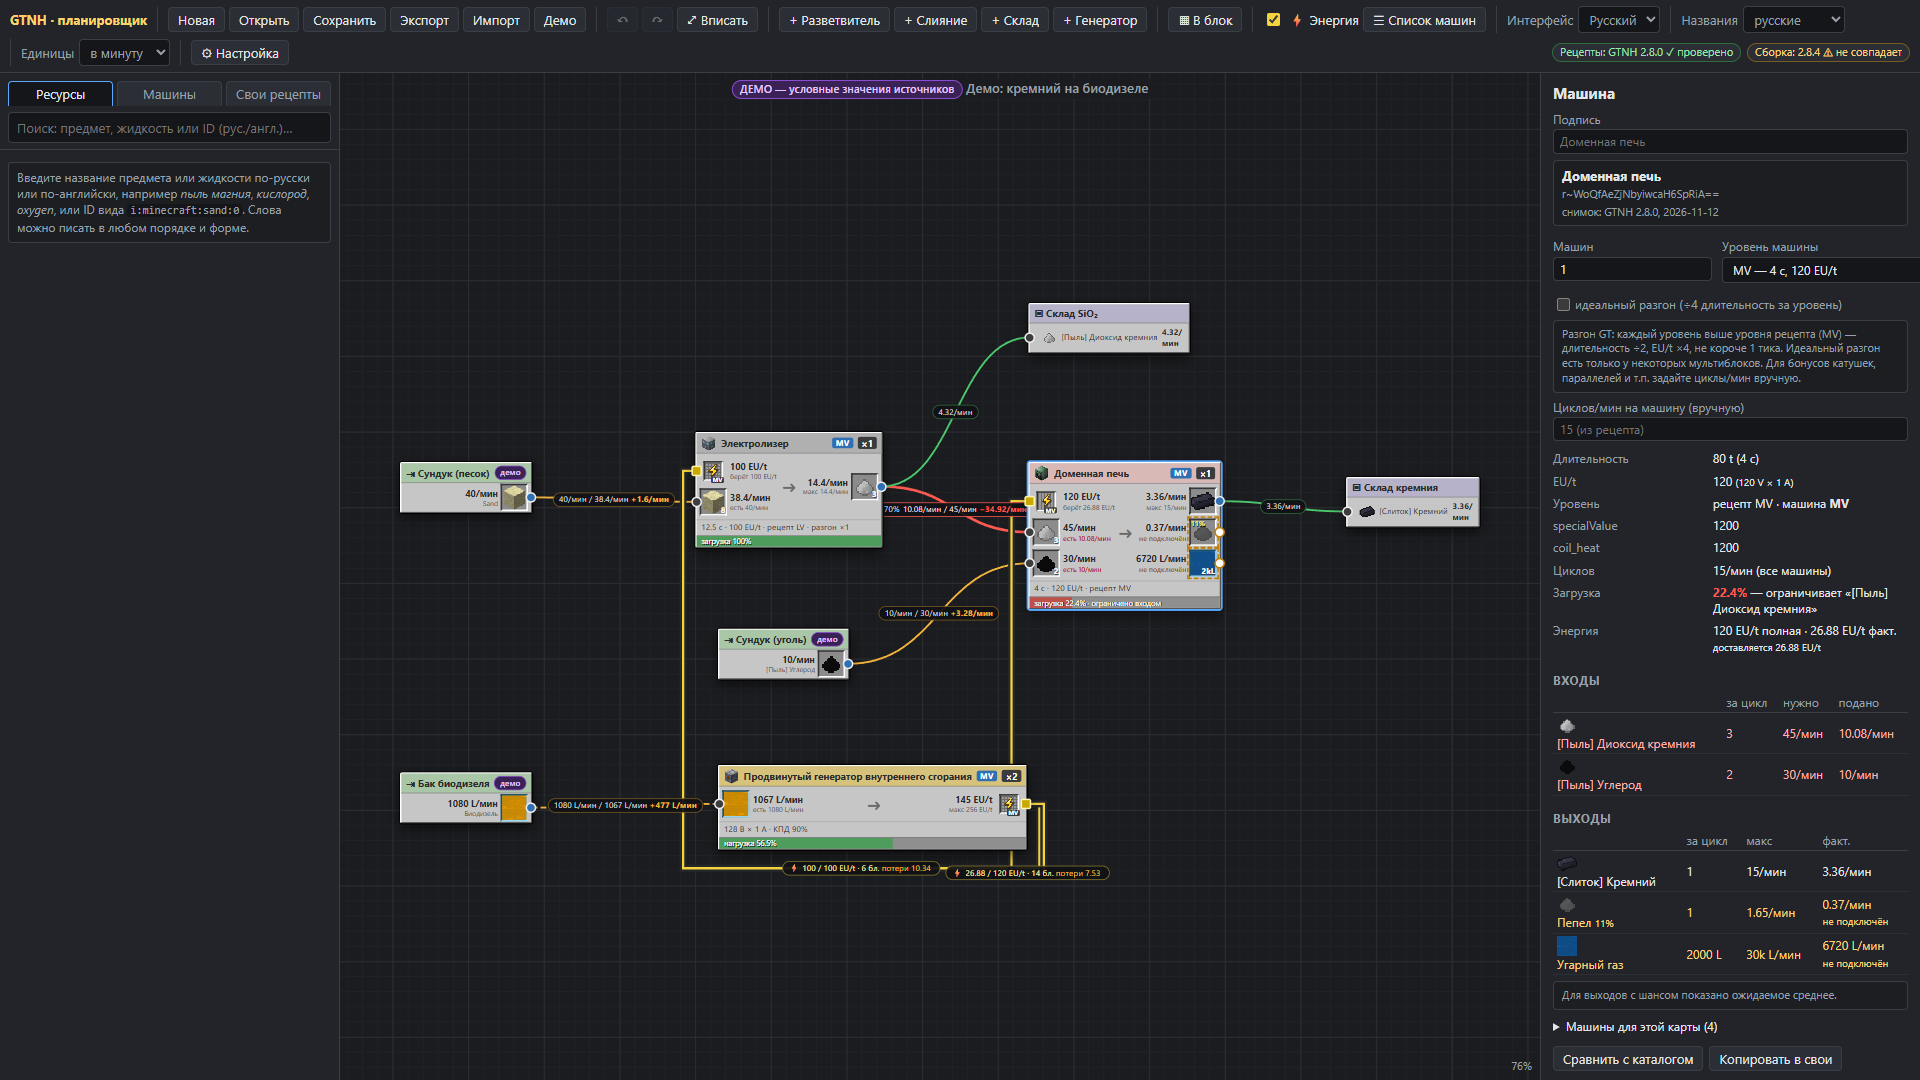
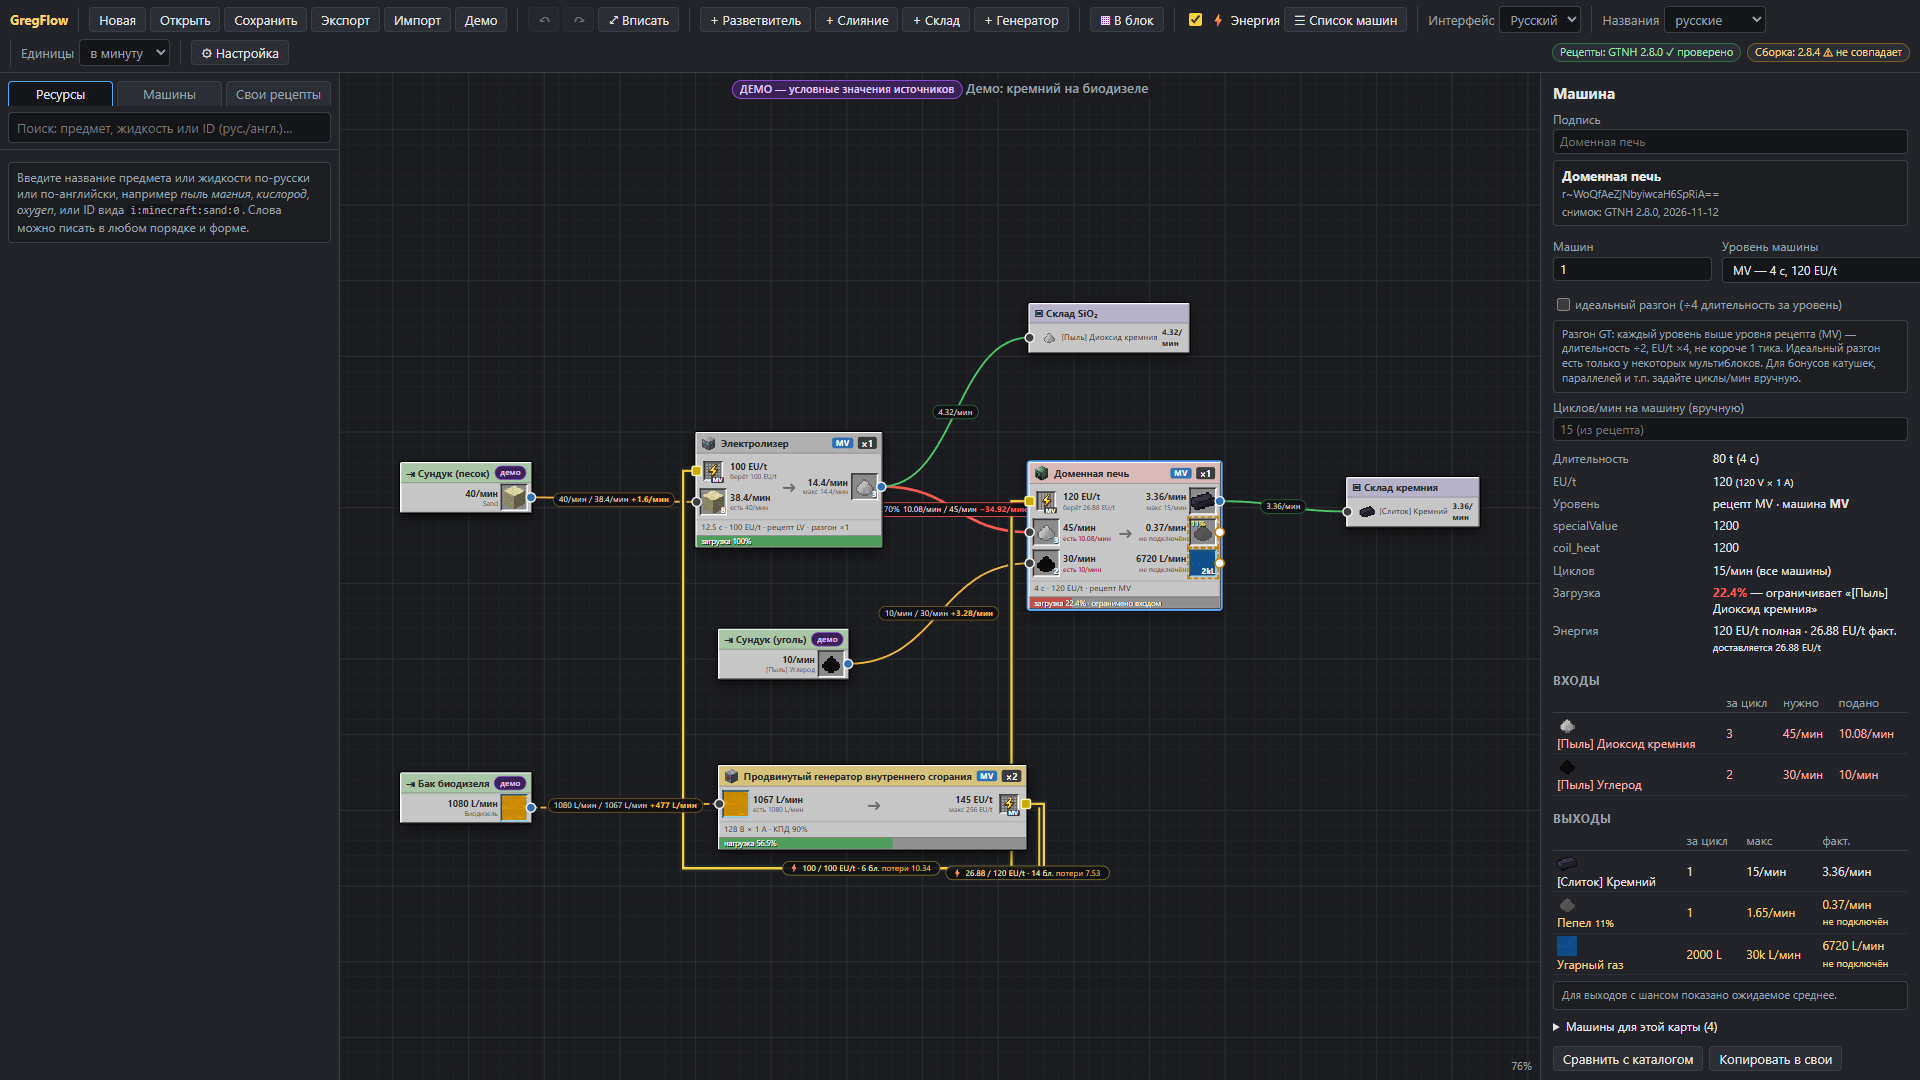
Rename the project to GregFlow
"GTNH Planner" is already taken. Display name, page title, header,
launchers, server banner, User-Agent and README links now say GregFlow;
screenshots retaken. File-format IDs and browser storage keys keep the
old gtnh-planner-* names so existing projects and settings still load.
GREGFLOW_VERBOSE is read, with GTNH_PLANNER_VERBOSE kept as a fallback.

Changed region(s): [[0.0, 0.0, 0.9375, 0.0306]]

diff --git a/web/index.html b/web/index.html
@@ -3,12 +3,12 @@
 <head>
 <meta charset="utf-8">
 <meta name="viewport" content="width=device-width, initial-scale=1">
-<title>Планировщик линий GTNH</title>
+<title>GregFlow — планировщик линий GTNH</title>
 <link rel="stylesheet" href="css/app.css">
 </head>
 <body>
 <header id="toolbar">
-  <div class="brand">GTNH · планировщик</div>
+  <div class="brand" title="GTNH">GregFlow</div>
   <div class="tbgroup">
     <button data-tb="new" title="Новая схема">Новая</button>
     <button data-tb="open" title="Открыть из папки projects/">Открыть</button>

diff --git a/web/js/i18n.js b/web/js/i18n.js
@@ -79,8 +79,7 @@ export function translateStatic(root = document.body) {
 
 const EN = {
   // ---- page / toolbar
-  'Планировщик линий GTNH': 'GTNH Line Planner',
-  'GTNH · планировщик': 'GTNH · planner',
+  'GregFlow — планировщик линий GTNH': 'GregFlow — GTNH line planner',
   'Новая': 'New', 'Открыть': 'Open', 'Сохранить': 'Save', 'Экспорт': 'Export', 'Импорт': 'Import', 'Демо': 'Demo',
   'Новая схема': 'New schematic',
   'Открыть из папки projects/': 'Open from the projects/ folder',

diff --git a/planner.py b/planner.py
@@ -1,5 +1,5 @@
 #!/usr/bin/env python3
-"""GTNH production line planner — entry point / Планировщик линий GTNH — точка входа.
+"""GregFlow, a GTNH production line planner — entry point / GregFlow, планировщик линий GTNH — точка входа.
 
     python planner.py                    # start and open the browser / запустить и открыть браузер
     python planner.py --mc-dir PATH      # Minecraft folder, read-only / папка Minecraft (только чтение)
@@ -57,7 +57,7 @@ def free_port(start: int) -> int:
 
 
 def main():
-    ap = argparse.ArgumentParser(description="GTNH production line planner")
+    ap = argparse.ArgumentParser(description="GregFlow, a GTNH production line planner")
     ap.add_argument("--port", type=int, default=8765)
     ap.add_argument("--mc-dir", help="Minecraft/GTNH folder (read-only); by default searched upwards and in settings")
     ap.add_argument("--no-browser", action="store_true")
@@ -103,7 +103,7 @@ def main():
     url = f"http://127.0.0.1:{port}/"
     print()
     print("=" * 64)
-    print(f"  Planner is running / планировщик запущен:  {url}")
+    print(f"  GregFlow is running / GregFlow запущен:  {url}")
     print("  Keep this window open while you use it; close it to stop.")
     print("  Не закрывайте это окно, пока работаете; закройте — чтобы остановить.")
     print("=" * 64)

diff --git a/server/app.py b/server/app.py
@@ -1,4 +1,4 @@
-"""GTNH production line planner - local HTTP server (Python stdlib only).
+"""GregFlow (GTNH production line planner) - local HTTP server (Python stdlib only).
 
 Binds to 127.0.0.1. All writes go to the planner's own data/ and projects/
 folders. The Minecraft installation (if any) is only read by install_check.
@@ -414,10 +414,10 @@ class Planner:
 # ====================================================================
 class Handler(BaseHTTPRequestHandler):
     planner: Planner = None  # set by make_server
-    server_version = "GTNHPlanner/" + APP_VERSION
+    server_version = "GregFlow/" + APP_VERSION
 
     def log_message(self, fmt, *args):  # quieter console
-        if os.environ.get("GTNH_PLANNER_VERBOSE"):
+        if os.environ.get("GREGFLOW_VERBOSE") or os.environ.get("GTNH_PLANNER_VERBOSE"):
             super().log_message(fmt, *args)
 
     # ---- helpers ----

diff --git a/server/setup.py b/server/setup.py
@@ -67,7 +67,7 @@ def missing_files(data_dir: str) -> list[dict]:
 
 def download(item: dict, progress=None) -> None:
     """Download one file to a temp name, verify SHA-256, then move it in place."""
-    req = urllib.request.Request(item["url"], headers={"User-Agent": "gtnh-planner"})
+    req = urllib.request.Request(item["url"], headers={"User-Agent": "GregFlow"})
     tmp = item["dest"] + ".part"
     os.makedirs(os.path.dirname(item["dest"]), exist_ok=True)
     h = hashlib.sha256()

diff --git a/server/lang.py b/server/lang.py
@@ -69,7 +69,7 @@ def _read(path):
 
 # ---------------------------------------------------------------- fetch
 def _get(url, timeout=60, tries=4):
-    req = urllib.request.Request(url, headers={"User-Agent": "gtnh-planner"})
+    req = urllib.request.Request(url, headers={"User-Agent": "GregFlow"})
     for i in range(tries):
         try:
             return urllib.request.urlopen(req, timeout=timeout).read()

diff --git a/README.ru.md b/README.ru.md
@@ -1,8 +1,8 @@
-# GTNH Planner — планировщик линий
+# GregFlow — планировщик линий GTNH
 
 [English](README.md) · **Русский**
 
-Планировщик производственных линий для **GregTech: New Horizons** (Minecraft 1.7.10). Собирайте
+**GregFlow** — планировщик производственных линий для **GregTech: New Horizons** (Minecraft 1.7.10). Собирайте
 линию из настоящих рецептов GTNH на холсте, как в NEI, и смотрите на каждой связи, сколько нужно,
 сколько приходит и где дефицит или избыток. Есть энергия (генераторы, кабели, потери), циклы
 переработки и блоки (узел из узлов). Интерфейс на русском или английском.
@@ -28,8 +28,8 @@
 
 ### Windows
 
-1. **Скачайте** последний `GTNH-Planner-….zip` со
-   [страницы релизов](https://github.com/Jetvac/GTNH-Planner/releases/latest) и **распакуйте** в
+1. **Скачайте** последний `GregFlow-….zip` со
+   [страницы релизов](https://github.com/Jetvac/GregFlow/releases/latest) и **распакуйте** в
    любую папку (например, в «Документы»).
 2. **Дважды щёлкните `start.bat`.**
    - Если Python не установлен, окно предложит установить его (ответьте `Y`) или откроет

diff --git a/README.md b/README.md
@@ -1,8 +1,8 @@
-# GTNH Planner
+# GregFlow
 
 **English** · [Русский](README.ru.md)
 
-A production line planner for **GregTech: New Horizons** (Minecraft 1.7.10). Build a line from real
+**GregFlow** is a production line planner for **GregTech: New Horizons** (Minecraft 1.7.10). Build a line from real
 GTNH recipes on a canvas, the way NEI shows them, and see on every link how much is needed, how much
 arrives, and where the shortages and surpluses are. It also covers energy (generators, cables,
 losses), recycling loops and blocks (a node made of nodes). The interface is in English or Russian.
@@ -28,8 +28,8 @@ files are never changed.
 
 ### Windows
 
-1. **Download** the latest `GTNH-Planner-….zip` from the
-   [Releases page](https://github.com/Jetvac/GTNH-Planner/releases/latest) and **unzip** it anywhere
+1. **Download** the latest `GregFlow-….zip` from the
+   [Releases page](https://github.com/Jetvac/GregFlow/releases/latest) and **unzip** it anywhere
    (for example into `Documents`).
 2. **Double-click `start.bat`.**
    - If Python is missing, the window offers to install it for you (answer `Y`), or opens
